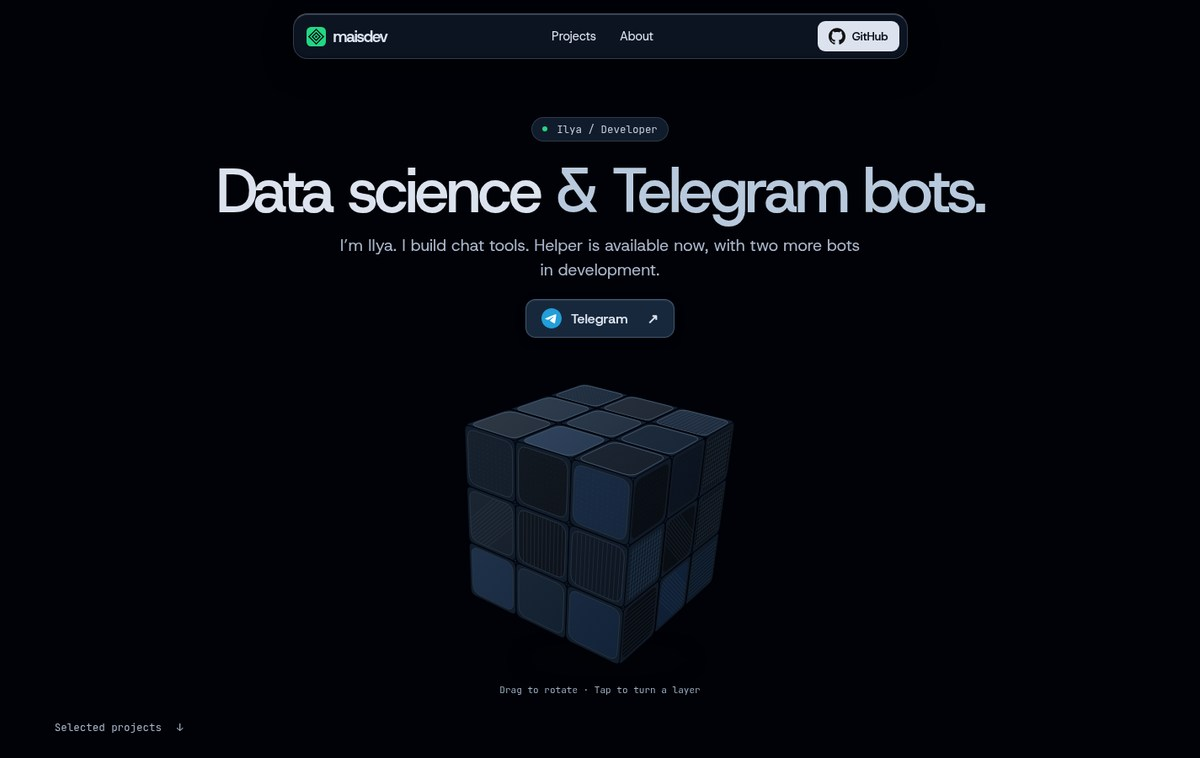
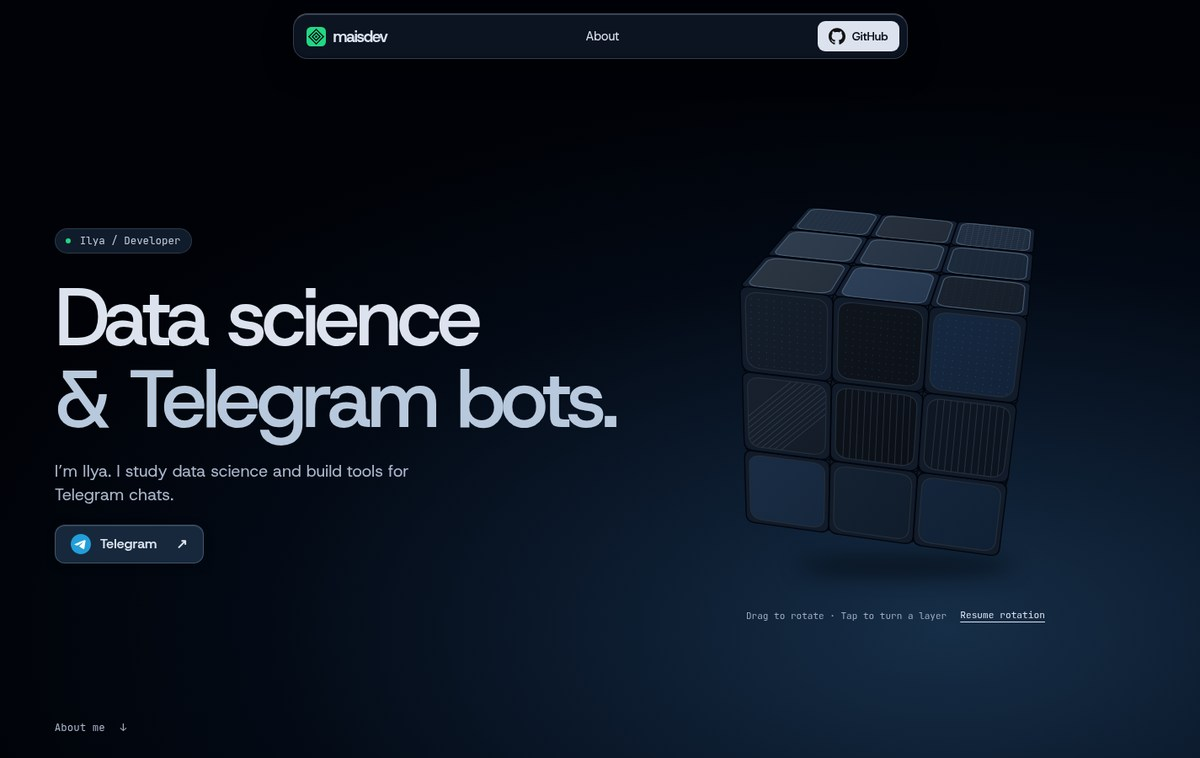
Вернуть боковую композицию, оживить кубик и появление блока о себе

diff --git a/style.css b/style.css
@@ -16,7 +16,6 @@ a{color:inherit;text-decoration:none}
 .site-header{height:var(--nav);position:sticky;top:0;z-index:5;background:var(--bg)}
 html{scroll-padding-top:calc(var(--nav) + 8px)}
 html:has(:focus-visible){scroll-behavior:auto}
-.project a:focus-visible{outline:3px solid #23d782;outline-offset:3px}
 .nav-inner,.nav nav,.wordmark,footer .wrap,.socials,.socials a,.next-section,.eyebrow,.contact{display:flex;align-items:center}
 .nav-inner{height:100%;justify-content:space-between;border-bottom:1px solid var(--rule)}
 .wordmark{font-size:1.5rem;font-weight:650;letter-spacing:-.06em;gap:.48em;min-height:44px}
@@ -27,10 +26,10 @@ html:has(:focus-visible){scroll-behavior:auto}
 .nav nav a::after,footer a::after,.socials a::after{content:"";position:absolute;bottom:6px;left:0;right:0;height:1px;background:currentColor;transform:scaleX(0);transform-origin:left;transition:transform .27s var(--ease)}
 .nav nav a:hover::after,footer a:hover::after,.socials a:hover::after{transform:scaleX(1)}
 .hero-layout{position:relative;min-height:calc(100svh - var(--nav));display:grid;grid-template-columns:1.15fr 1fr;align-items:center;gap:2%;padding-block:clamp(36px,7vh,80px) clamp(80px,11vh,130px)}
-.eyebrow,.next-section,.status,.about h2{font:400 .78rem/1.4 var(--mono)}
+.eyebrow,.next-section,.about h2{font:400 .78rem/1.4 var(--mono)}
 .eyebrow{color:var(--quiet);gap:11px}
 .signal{height:8px;width:8px;background:var(--accent)}
-h1,.projects h2,.about p{font-weight:500;letter-spacing:var(--display-tracking)}
+h1,.about p{font-weight:500;letter-spacing:var(--display-tracking)}
 h1{font-size:clamp(3.3rem,6.7vw,7.8rem);line-height:1.01;margin:clamp(20px,3vh,36px) 0 22px}
 h1 > span{display:block}
 .secondary-line{color:#aab6cb}
@@ -38,7 +37,7 @@ h1 > span{display:block}
 .contact{gap:11px;width:fit-content;margin-top:32px;background:#0c1929;color:var(--ink);border:1px solid #34455c;padding:0 18px;min-height:51px;border-radius:6px;font-weight:600;transition:transform .24s var(--ease),background .24s}
 .contact span{margin-left:12px;transition:transform .24s var(--ease)}
 .contact:hover{transform:translateY(-2px);background:#152a40}
-.contact:hover span,.socials a:hover span,.project a:hover .arrow{transform:translate(2px,-2px)}
+.contact:hover span,.socials a:hover span{transform:translate(2px,-2px)}
 .contact:focus-visible{outline-color:#23d782}
 .contact:active{transform:translateY(1px)}
 .stage{position:relative;display:grid;place-items:center;width:100%;aspect-ratio:1;max-height:68svh}
@@ -51,18 +50,6 @@ h1 > span{display:block}
 .next-section{position:absolute;bottom:24px;left:0;gap:18px;min-height:44px;color:var(--quiet)}
 .next-section span{transition:transform .3s var(--ease)}.next-section:hover span{transform:translateY(4px)}
 .section{min-height:calc(100svh - var(--nav));display:grid;align-items:center;padding-block:clamp(56px,10vh,140px)}
-.projects{background:var(--paper);color:#dce3ef}
-.projects h2{font-size:clamp(3.3rem,8.4vw,9rem);line-height:1;margin-bottom:clamp(36px,8vh,90px);width:fit-content}
-.projects h2 span{color:#23d782}
-.project{display:grid;grid-template-columns:minmax(0,1fr) minmax(0,1fr) 17ch;gap:4%;align-items:center;border-top:1px solid #26344a;padding:clamp(22px,4.1vh,49px) 0}
-.project:last-child{border-bottom:1px solid #26344a}
-.project h3{font-size:clamp(1.65rem,3.7vw,4.2rem);line-height:1.07;font-weight:500;letter-spacing:-.05em}
-.project h3 a{min-height:44px;display:inline-flex;align-items:center;gap:.3em}
-.arrow{font-size:.55em;transition:transform .25s var(--ease)}
-.project p{max-width:35ch;font-size:clamp(1rem,1.25vw,1.24rem);line-height:1.5;color:#aab6cb}
-.status{justify-self:end;display:flex;align-items:center;gap:8px;color:#aab6cb}
-.status::before{content:"";width:7px;height:7px;border:1px solid currentColor;border-radius:50%}
-.available::before{background:var(--accent);border-color:var(--accent)}
 .about{--bg:#01040b;--ink:#dce3ef;--accent:#23d782;background:var(--bg);color:var(--ink)}
 .about h2{font-size:.95rem;margin-bottom:clamp(28px,5vh,65px)}
 .about .mo-wh__text{max-width:20ch;line-height:1.08}
@@ -84,13 +71,9 @@ footer .wrap{min-height:84px;justify-content:space-between}
  .contact{margin-top:18px;min-height:46px}
  .stage{max-height:none;width:min(100%,35svh);justify-self:center}
  .cube{width:100%}.next-section{bottom:4px}
- .projects h2{margin-bottom:36px}
- .project{grid-template-columns:minmax(0,1fr) auto;gap:9px 8px;padding:22px 0}
- .project p{grid-column:1/-1;grid-row:2}
- .project h3{font-size:clamp(1.6rem,7.7vw,2.55rem)}.status{font-size:.67rem}
  .about h2{margin-bottom:26px}
 }
-@media(min-width:721px) and (max-width:920px){h1{font-size:5.9vw}.project{grid-template-columns:1fr 1fr 13ch}}
+@media(min-width:721px) and (max-width:920px){h1{font-size:5.9vw}}
 @media(prefers-reduced-motion:reduce){html{scroll-behavior:auto}*,*::before,*::after{animation:none!important;transition:none!important}.about .mo-wh__text .mo-w{color:var(--ink)}}
 
 @media(max-width:359px){h1{font-size:2.45rem}.stage{width:min(100%,32svh)}.hero-layout{gap:8px;padding-top:22px}}
@@ -118,23 +101,21 @@ footer .wrap{min-height:84px;justify-content:space-between}
 .nav nav a::after{display:none}.nav nav a:hover,.nav nav a[aria-current]{background:#d5e7ff12}
 .git-link{justify-self:end;display:flex;align-items:center;gap:8px;padding:0 13px;min-height:36px;border-radius:9px;background:#dce3ef;color:#07101b;font-weight:600;font-size:.86rem;transition:transform .2s}
 .git-link img{filter:brightness(.08)}.git-link:hover{transform:translateY(-1px)}
-.hero-layout{min-height:100svh;display:flex;flex-direction:column;align-items:center;justify-content:center;text-align:center;
-  gap:clamp(6px,1.5vh,24px);padding:clamp(92px,12vh,140px) 0 42px}
-.hero-text{display:flex;flex-direction:column;align-items:center;max-width:980px}
-.eyebrow{border:1px solid #9bb6d433;background:#101c2b;color:#c0ccdb;padding:5px 12px;border-radius:99px}
+.hero{background:radial-gradient(ellipse 85% 72% at 79% 83%,#162e47 0%,#0b192b 38%,#030a15 67%,#000207 100%)}
+.hero-layout{min-height:100svh;padding-block:calc(var(--nav) + 36px) 70px}
+.hero-text{min-width:0}
+.eyebrow{width:fit-content;border:1px solid #9bb6d433;background:#101c2b;color:#c0ccdb;padding:5px 12px;border-radius:99px}
 .signal{border-radius:50%;width:6px;height:6px}
-h1{font-size:clamp(3rem,min(6.6vw,8.2vh),7.1rem);line-height:1.01;margin:clamp(12px,2.3vh,28px) 0 14px}
-h1 > span{display:inline}.secondary-line{color:#b8c9dd}
-.intro{max-width:49ch;line-height:1.45;font-size:clamp(1rem,1.4vw,1.22rem)}
+
+.secondary-line{color:#b8c9dd}
+.intro{max-width:36ch;line-height:1.45;font-size:clamp(1rem,1.4vw,1.22rem)}
 .contact{margin-top:clamp(14px,2.4vh,25px);min-height:46px;
   background:#17283c;border-color:#9bb6d451;box-shadow:inset 0 1px 1px #cfdeed24,0 3px 12px #0004;border-radius:12px}
 .stage{width:100%;max-height:none;aspect-ratio:auto;display:flex;flex-direction:column;align-items:center}
-.cube{width:min(100%,clamp(230px,44svh,550px));flex:none}
+.cube{width:min(100%,58svh);flex:none}
 .cube-help{color:#9cacc0;font:400 .69rem/1.5 var(--mono);margin:0}
 .next-section{bottom:14px}
-.project-list{padding:0 clamp(16px,3vw,42px);border:1px solid #25364c;border-radius:20px;background:#09121f;box-shadow:inset 0 1px 0 #c5d9ef0f}
-.project:first-child{border-top:0}.project:last-child{border-bottom:0}
-.work-layout,.about-layout{max-width:1140px}
+.about-layout{max-width:1140px}
 @media(max-width:720px){
   .hero-layout{padding:90px 0 48px;gap:14px}
   h1{font-size:clamp(2.6rem,9.3vw,4.2rem)}h1 > span{display:block}
@@ -147,3 +128,12 @@ h1 > span{display:inline}.secondary-line{color:#b8c9dd}
 }
 @media(max-width:450px){.git-link span{display:none}.git-link{min-width:44px;justify-content:center}}
 @media(prefers-reduced-transparency:reduce){.site-header::before{background:#101b2b!important;backdrop-filter:none!important;-webkit-backdrop-filter:none!important}}
+
+.cube-tools{display:flex;flex-wrap:wrap;align-items:center;justify-content:center;gap:0 13px}
+.spin-toggle{font:400 .7rem/1.4 var(--mono);min-height:44px;cursor:pointer;color:var(--ink);background:transparent;border:0;padding:3px;text-decoration:underline;text-underline-offset:4px}
+@media(max-width:720px){.hero{background:radial-gradient(ellipse 100% 62% at 72% 74%,#132a40,#081424 51%,#000207 100%)}}
+@media(prefers-reduced-motion:no-preference){
+  .section-arrives{animation:section-arrival .72s var(--ease) both}
+  @keyframes section-arrival{from{opacity:.3;transform:translateY(16px)}to{opacity:1;transform:translateY(0)}}
+}
+@media(prefers-reduced-motion:reduce){.spin-toggle{display:none}}

diff --git a/index.html b/index.html
@@ -6,9 +6,9 @@
   <meta name="theme-color" content="#000207">
   <meta name="page-type" content="software">
   <meta name="site-kind" content="software">
-  <meta name="description" content="Ilya’s portfolio of Telegram bots and work in data science. Explore Helper, Downloader and Moderator, or get in touch.">
+  <meta name="description" content="Ilya’s portfolio of Telegram bots and work in data science. Learn about Ilya and get in touch.">
   <meta property="og:title" content="Ilya / maisdev — Data science &amp; Telegram bots">
-  <meta property="og:description" content="Explore Ilya’s bot projects and get in touch with maisdev.">
+  <meta property="og:description" content="Data science, chat automation and a direct line to Ilya.">
   <meta property="og:type" content="website">
   <meta property="og:image" content="https://daexorn.github.io/assets/share.jpg">
   <title>Ilya / maisdev — Data science &amp; Telegram bots</title>
@@ -32,7 +32,7 @@
   <header class="site-header nav">
     <div class="wrap nav-inner">
       <a class="wordmark" href="#top" aria-label="maisdev home"><img src="assets/mark.svg" alt="" width="30" height="30">maisdev</a>
-      <nav aria-label="Main navigation"><a href="#work">Projects</a><a href="#about">About</a></nav>
+      <nav aria-label="Main navigation"><a href="#about">About</a></nav>
       <a class="git-link" href="https://github.com/daexorn" aria-label="daexorn on GitHub"><img src="assets/brands/github.svg" alt="" width="20" height="20"><span>GitHub</span></a>
     </div>
   </header>
@@ -42,7 +42,7 @@
         <div class="hero-text">
           <p class="eyebrow"><span class="signal"></span>Ilya / Developer</p>
           <h1 id="headline"><span>Data science</span> <span class="secondary-line">&amp; Telegram bots.</span></h1>
-          <p class="intro">I’m Ilya. I build chat tools. Helper is available now, with two more bots in development.</p>
+          <p class="intro">I’m Ilya. I study data science and build tools for Telegram chats.</p>
           <a class="contact btn btn--primary" href="https://t.me/mssvr"><img src="assets/brands/telegram.svg" width="24" height="24" alt="">Telegram<span aria-hidden="true">↗</span></a>
         </div>
         <div class="stage hero__stage" data-enter-media>
@@ -50,29 +50,9 @@
             <img src="assets/cube-still.svg" width="512" height="512" alt="">
             <canvas aria-hidden="true" width="512" height="512"></canvas>
           </button>
-          <p class="cube-help">Drag to rotate · Tap to turn a layer</p>
+          <div class="cube-tools"><p class="cube-help">Drag to rotate · Tap to turn a layer</p><button type="button" class="spin-toggle" hidden>Pause rotation</button></div>
         </div>
-        <a class="next-section" href="#work">Selected projects <span aria-hidden="true">↓</span></a>
-      </div>
-    </section>
-    <section class="projects section" id="work" aria-labelledby="projects-title">
-      <div class="wrap work-layout">
-        <h2 id="projects-title" data-moment="liquid-type" data-moment-opts='{"strength":0.38}'>Bot projects<span>.</span></h2>
-        <div class="project-list">
-          <article class="project">
-            <h3><a href="https://t.me/slhelperobot">Helper<span class="arrow" aria-hidden="true">↗</span></a></h3>
-            <p>A Telegram assistant for everyday chat tasks.</p>
-            <span class="status available">Available</span>
-          </article>
-          <article class="project">
-            <h3>Downloader</h3><p>A bot for downloading media directly in a Telegram conversation.</p>
-            <span class="status">In development</span>
-          </article>
-          <article class="project">
-            <h3>Moderator</h3><p>Chat moderation tools for the routine work of running a community.</p>
-            <span class="status">In development</span>
-          </article>
-        </div>
+        <a class="next-section" href="#about">About me <span aria-hidden="true">↓</span></a>
       </div>
     </section>
     <section class="about section" id="about" aria-labelledby="about-title" data-moment="word-highlight">

diff --git a/script.js b/script.js
@@ -53,3 +53,15 @@ function queueNavUpdate(){
 window.addEventListener('scroll',queueNavUpdate,{passive:true});
 window.addEventListener('resize',queueNavUpdate);
 updateNav();
+
+// Everything stays readable without script and when a visitor follows an anchor.
+if ('IntersectionObserver' in window && !matchMedia('(prefers-reduced-motion: reduce)').matches) {
+  const arrival = new IntersectionObserver(entries => {
+    for (const entry of entries) {
+      if (!entry.isIntersecting) continue;
+      entry.target.classList.add('section-arrives');
+      arrival.unobserve(entry.target);
+    }
+  }, {threshold: 0.08});
+  document.querySelectorAll('main > section:not(.hero) > .wrap').forEach(el => arrival.observe(el));
+}
